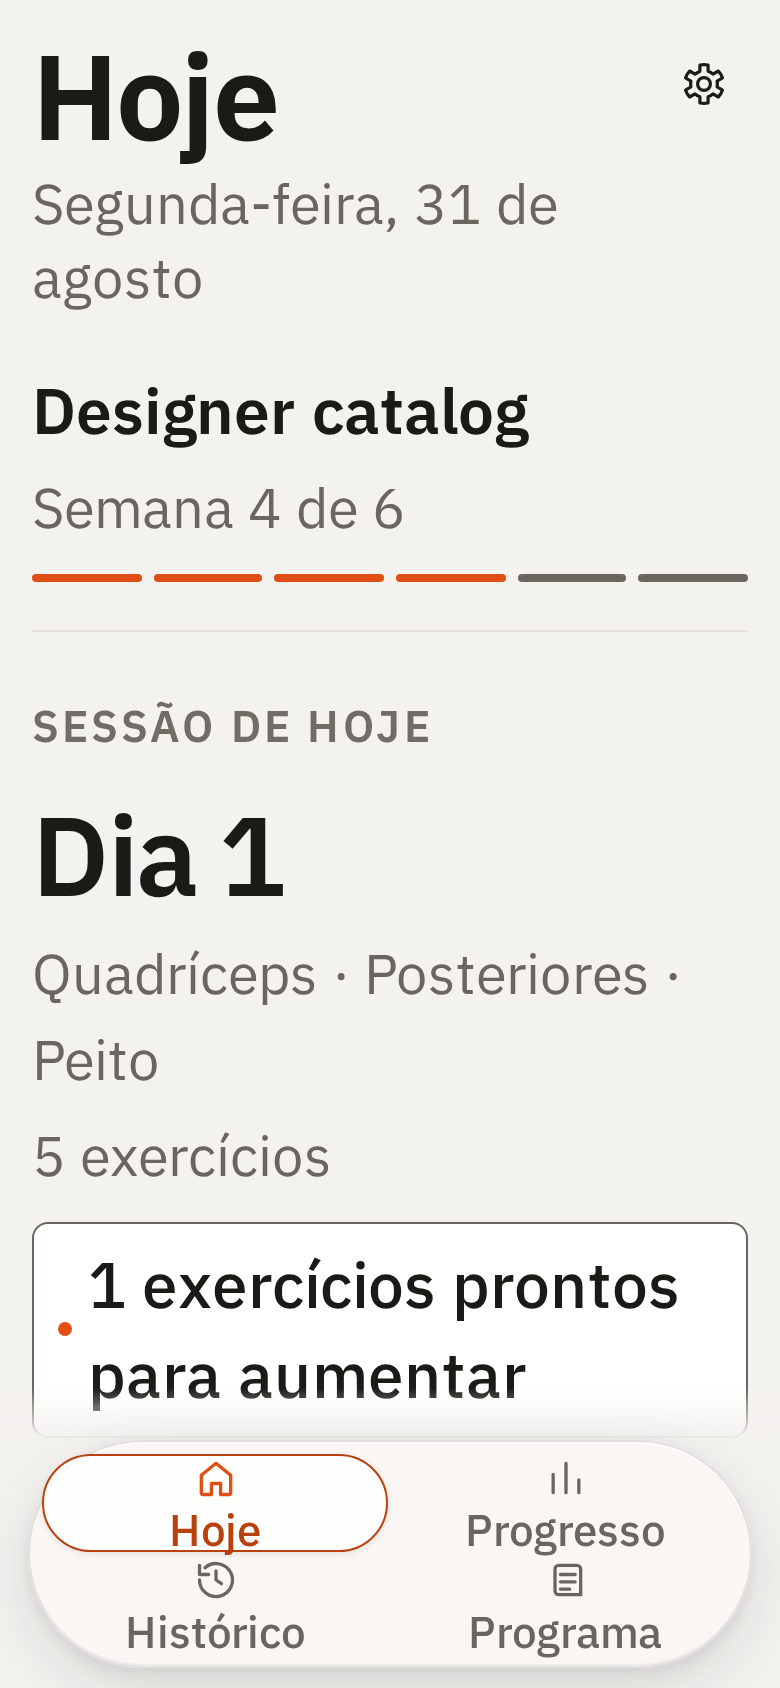
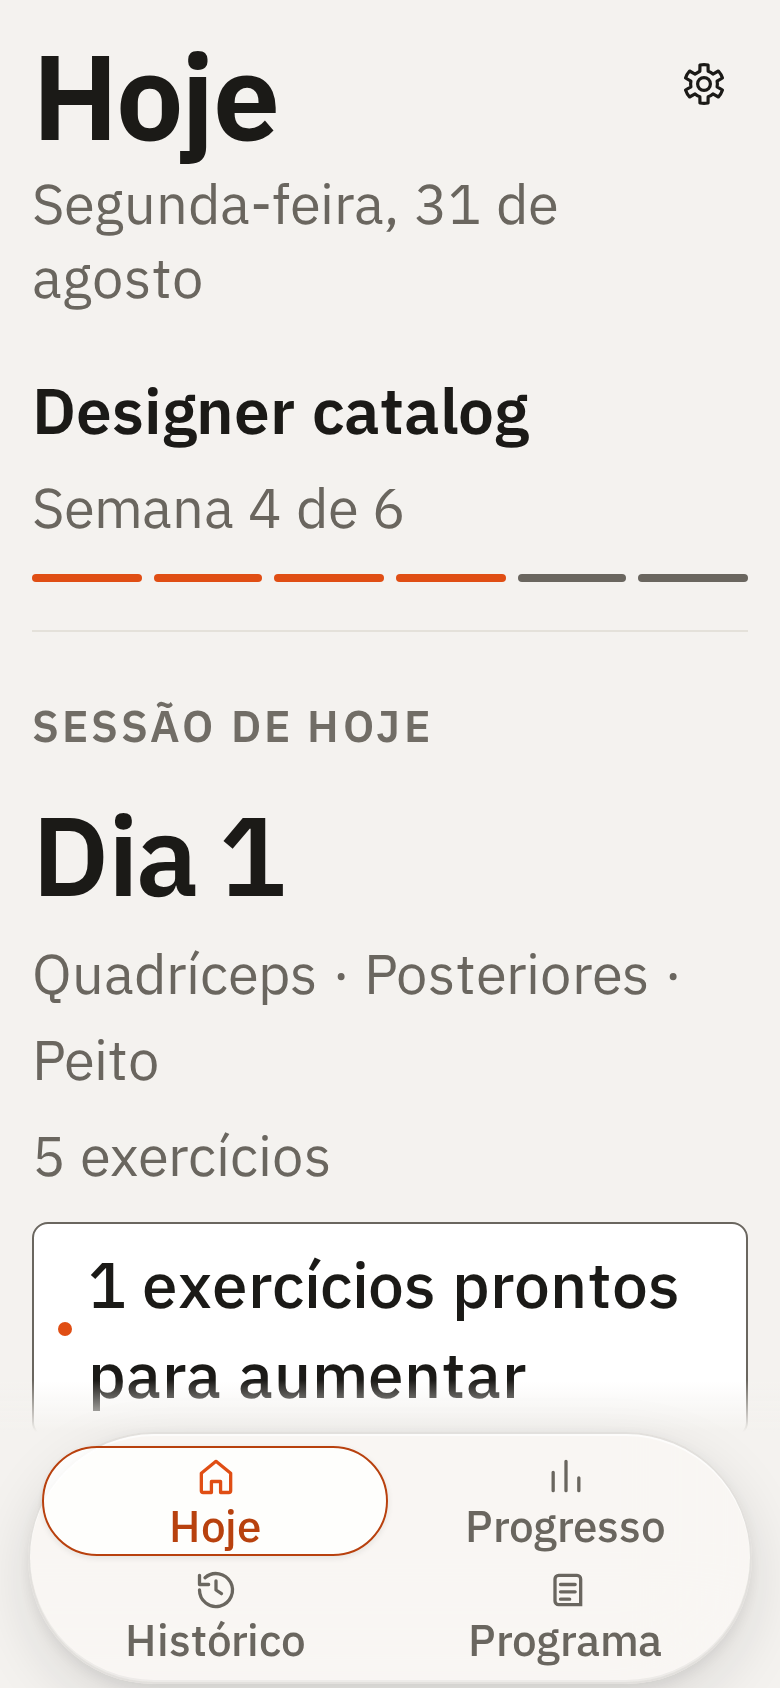
fix(ui-system): fit dock labels at 200%

diff --git a/styles.css b/styles.css
@@ -2619,14 +2619,16 @@ nav button.active{
   nav:has(button:nth-child(3).active){--dock-i:2}
   nav:has(button:nth-child(4).active){--dock-i:3}
 }
-/* A true 200% root text size makes four short dock columns break primary tab
-   names inside words. Reflow to a two-by-two dock and give each selected lens
-   one row, keeping all four actions visible without reducing label size. */
+/* At true 200% text, four short dock columns break primary names inside words.
+   Reflow to two columns. The 22px label glyphs extend past their line boxes, so
+   reserve full rows for each icon and label without reducing either size. */
 :root[style*="font-size: 200%"]{
-  --dock-h:calc(70px + 2 * var(--font-size-label));
+  --dock-h:calc(82px + 2 * var(--font-size-label));
+  --dock-gap:2px;
   --nav:calc(var(--dock-h) + var(--dock-gap));
 }
 :root[style*="font-size: 200%"] nav{grid-template-columns:repeat(2,minmax(0,1fr))}
+:root[style*="font-size: 200%"] nav button{gap:3px}
 :root[style*="font-size: 200%"] nav::before{
   bottom:auto;
   width:calc((100% - 12px - 2px)/2);

diff --git a/sw.js b/sw.js
@@ -1,4 +1,4 @@
-const CACHE = "repforge-v331";
+const CACHE = "repforge-v332";
 const ASSETS = [
   "./", "./index.html", "./styles.css", "./motion-polish.css", "./manifest.webmanifest",
   "./vendor/motion/motion.js", "./vendor/dnd-kit/dnd-kit.js", "./vendor/dnd-kit/dnd-kit.runtime.js", "./motion-layer.js", "./motion-layer.js?v=307",
